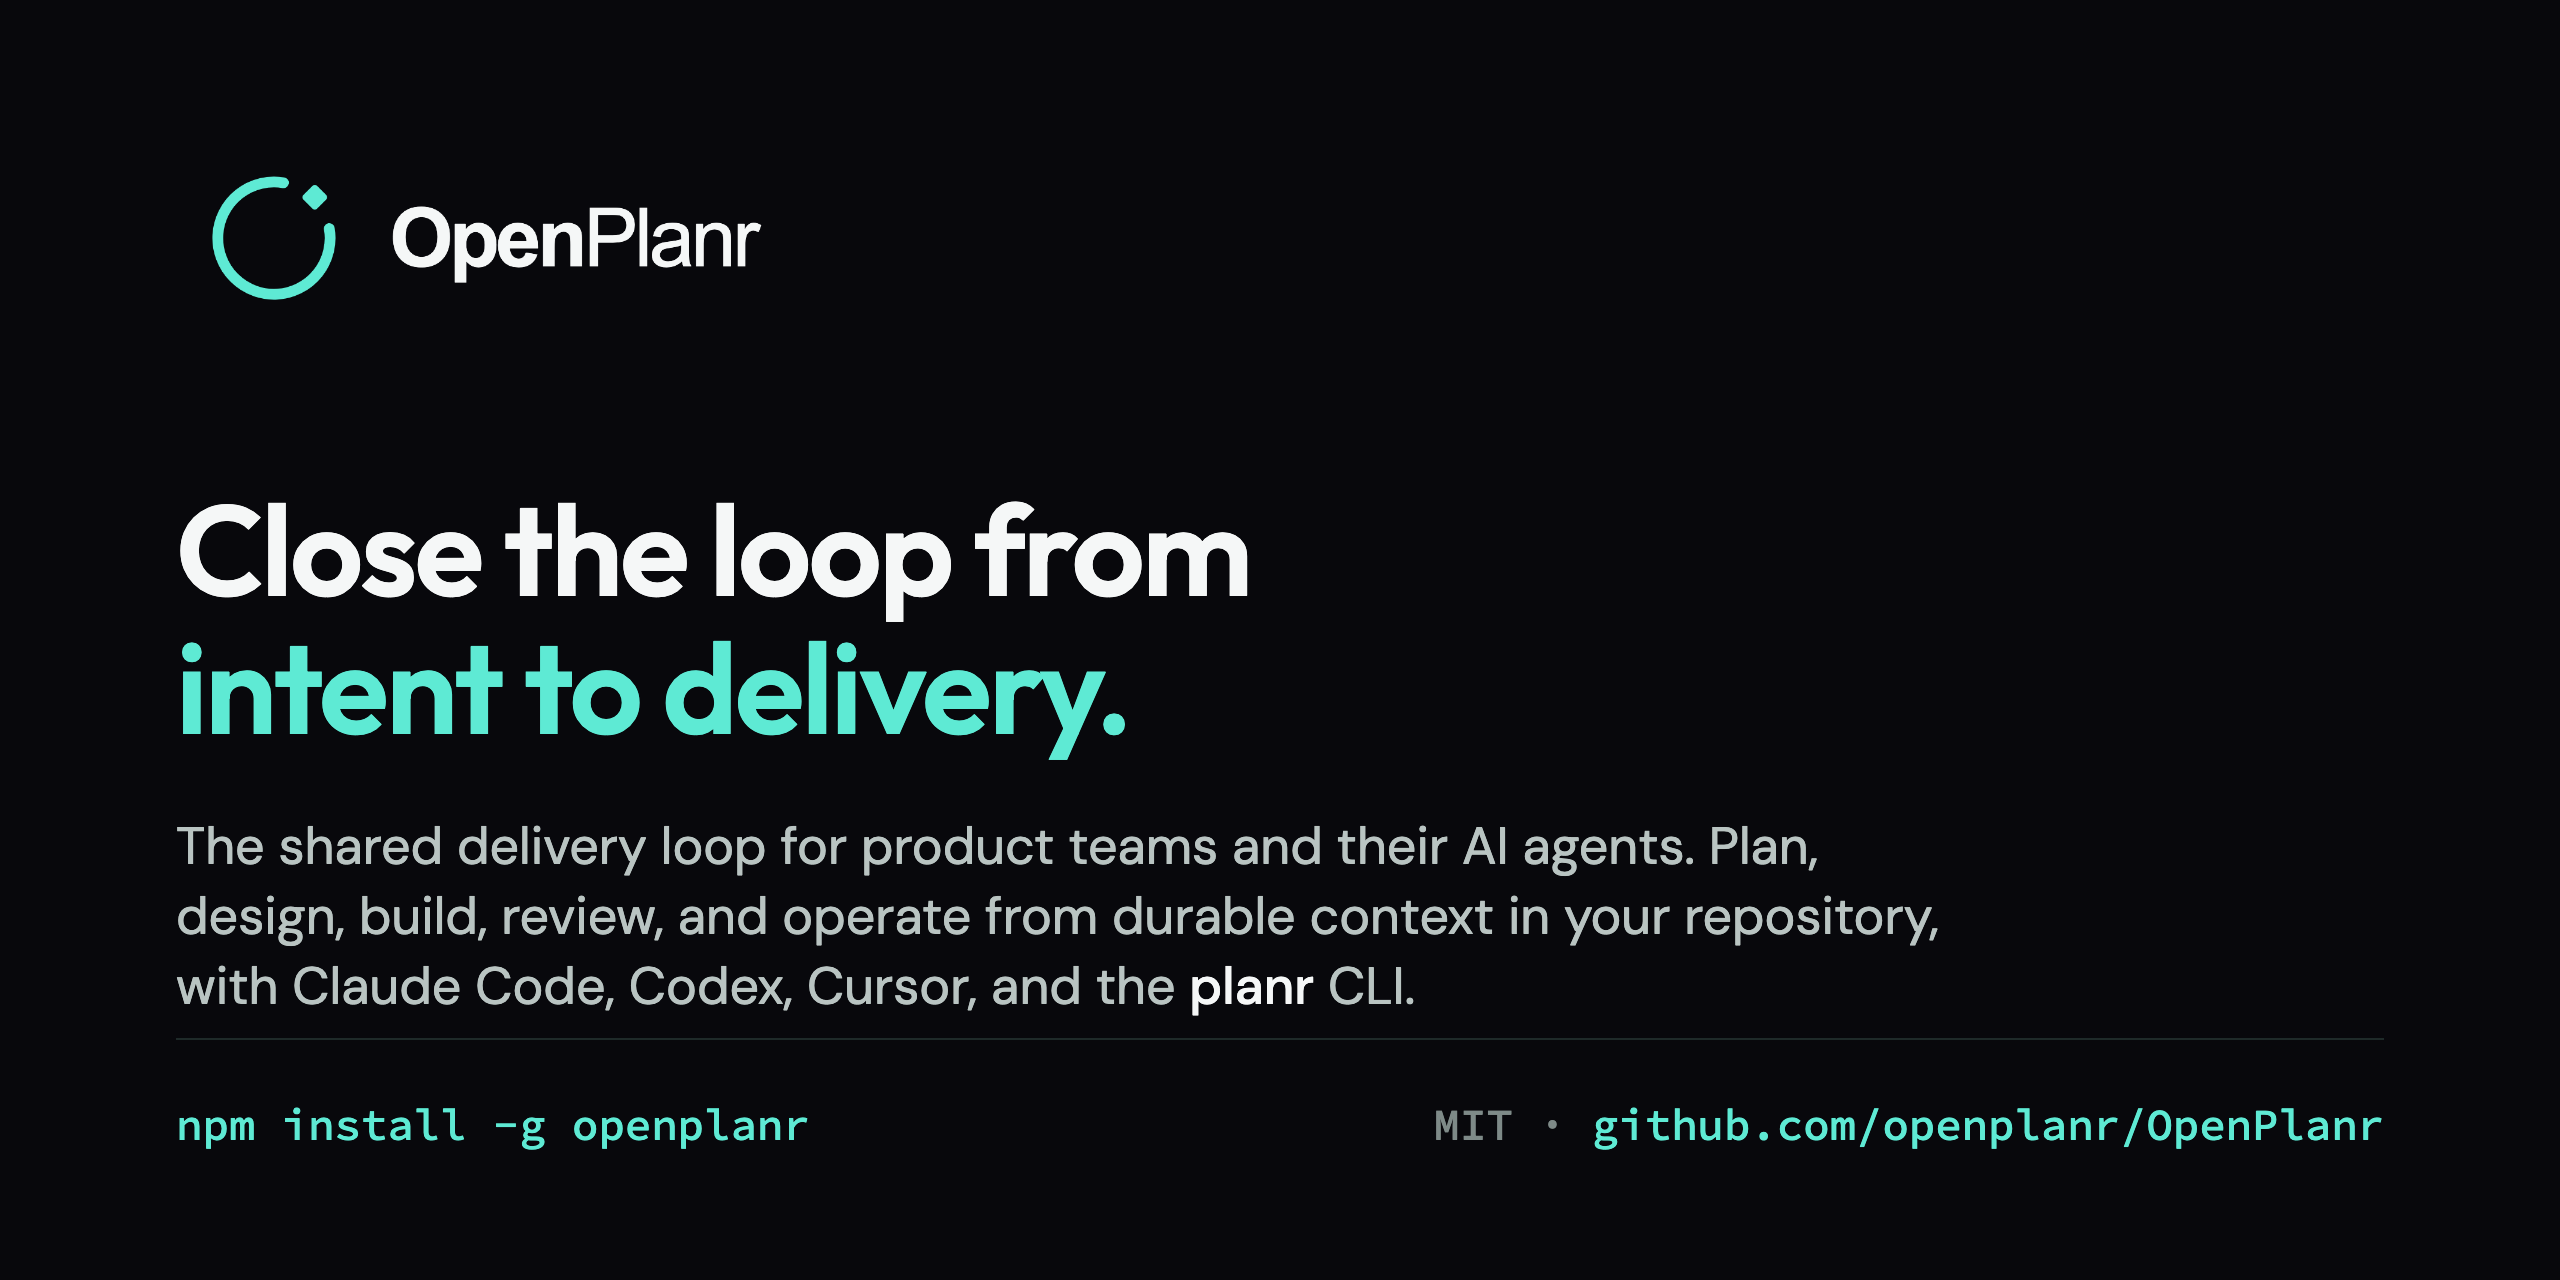
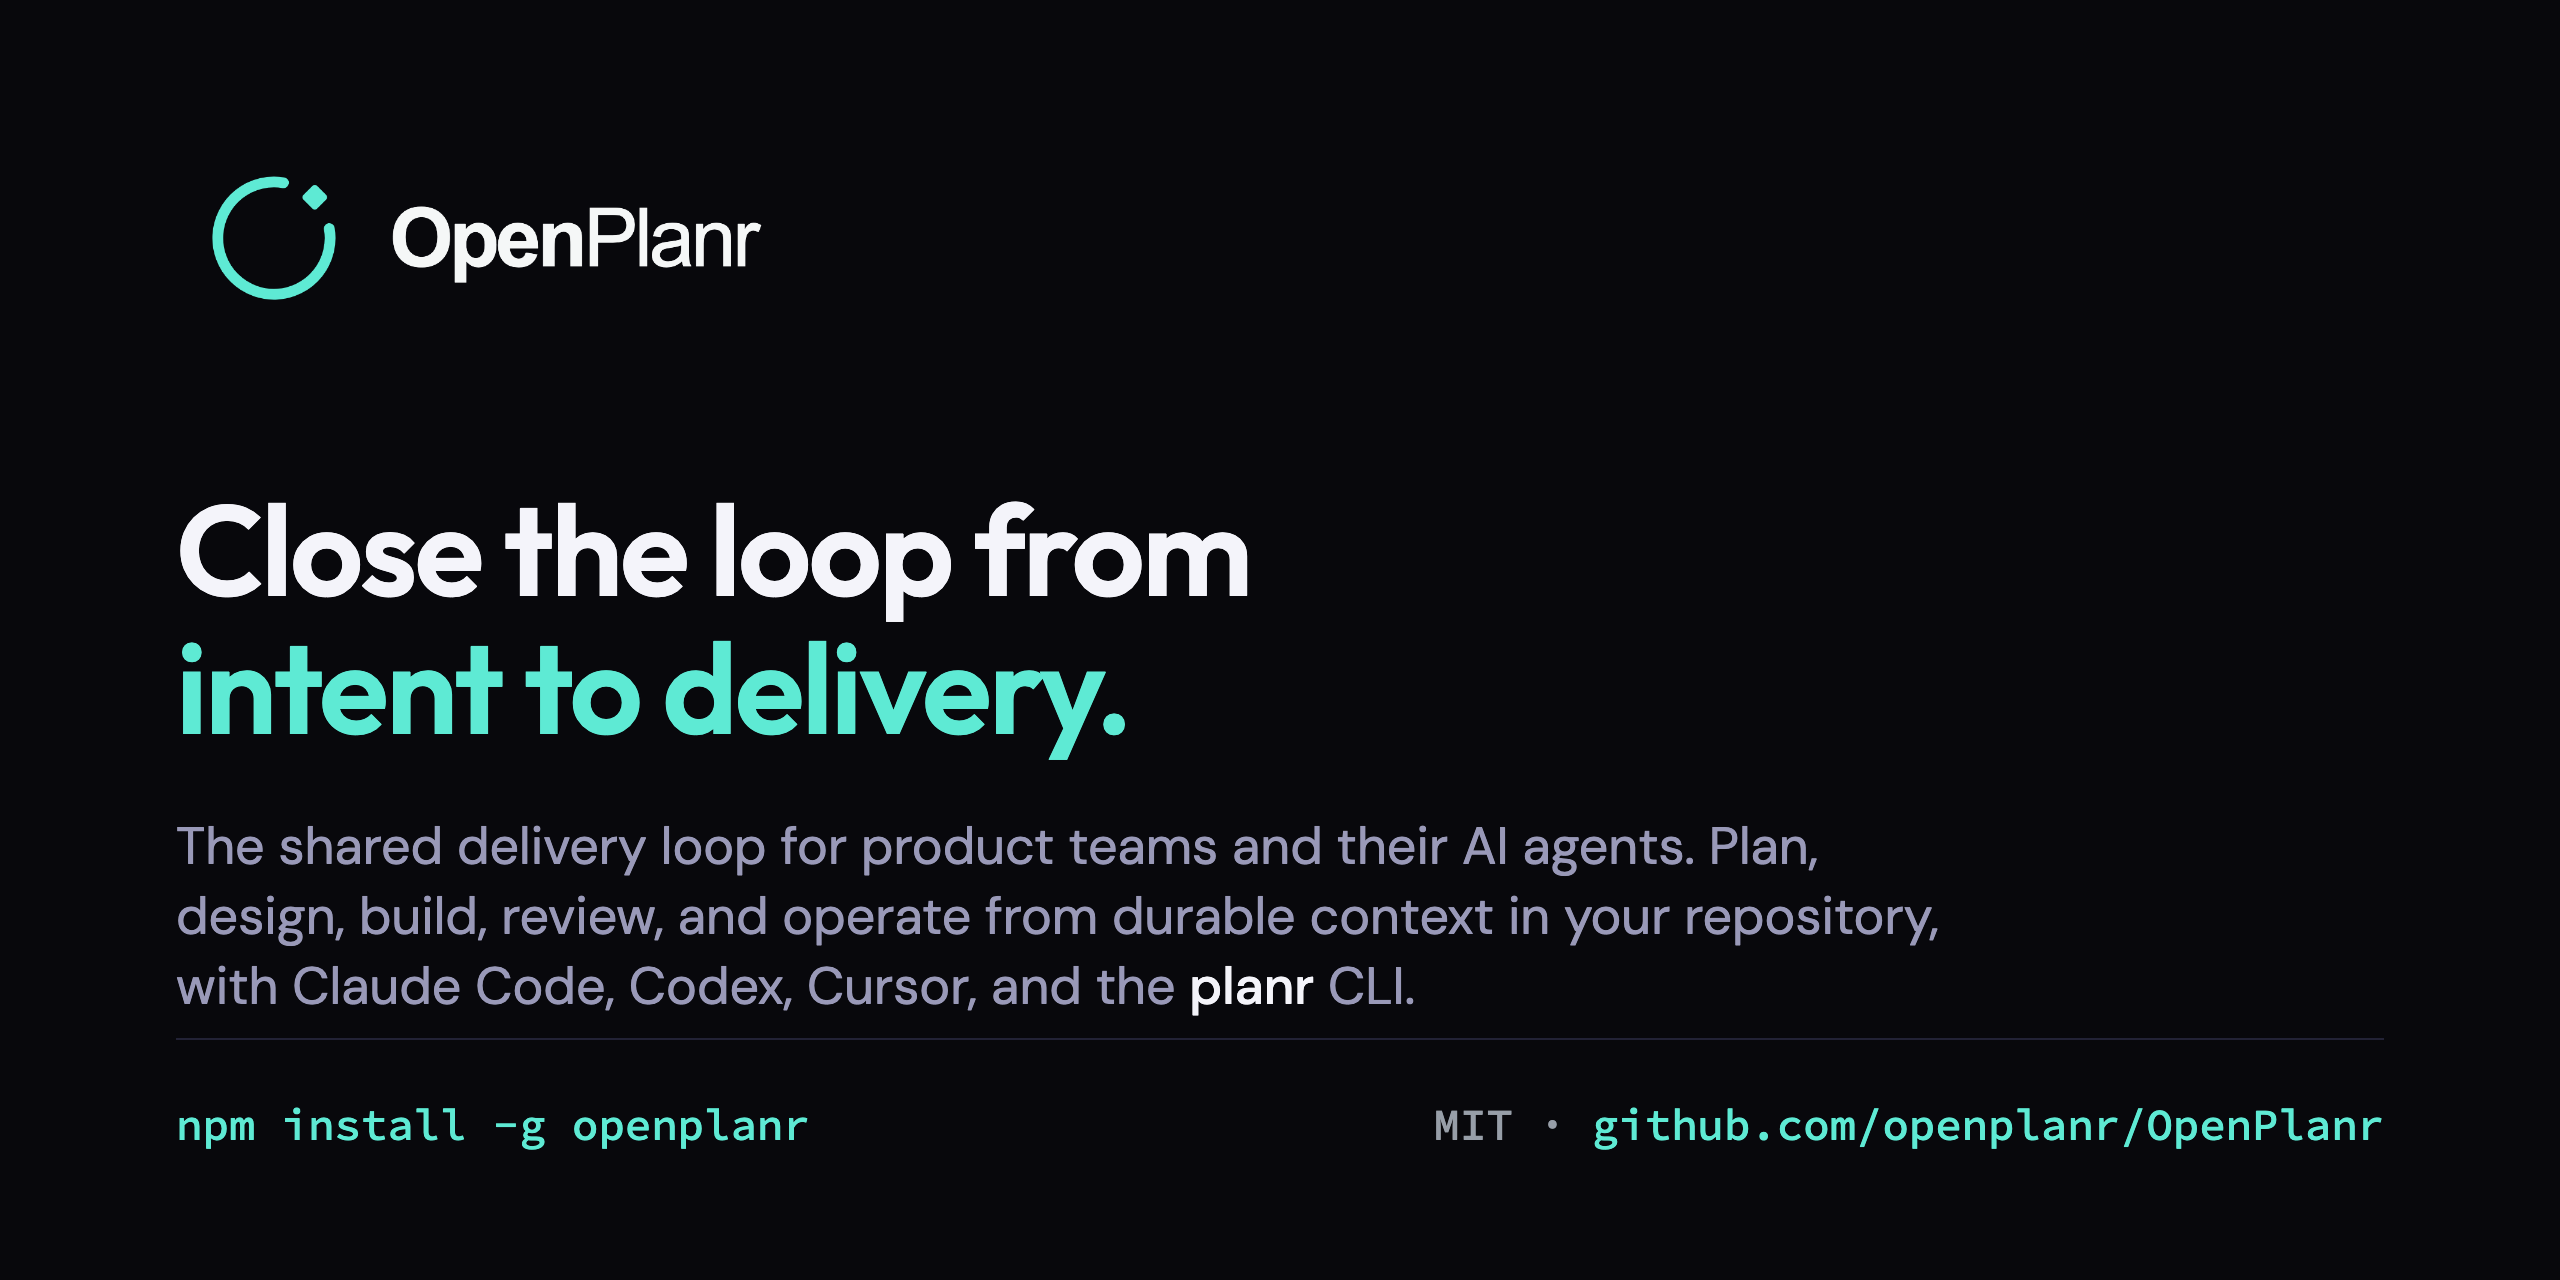
docs(brand): use the reconciled teal and token greys
Teal on light moves to #206E67; #237A72 measured 4.4:1 on the light
raised surface, below AA for body text. The social preview takes its
text, body, dim and rule colors from the shared op-* token set and is
re-rendered at 2560 x 1280.

Changed region(s): [[0.0625, 0.6562, 0.75, 0.7812], [0.5625, 0.875, 0.5938, 0.9062]]

diff --git a/docs/assets/brand/social-preview.html b/docs/assets/brand/social-preview.html
@@ -4,19 +4,19 @@
 <link href="https://fonts.googleapis.com/css2?family=Outfit:wght@500;600;700&family=DM+Sans:wght@400;500&family=Source+Code+Pro:wght@500&display=swap" rel="stylesheet">
 <style>
   html,body{margin:0;width:1280px;height:640px;background:#08080C;overflow:hidden}
-  .card{position:relative;width:1280px;height:640px;box-sizing:border-box;padding:72px 88px;color:#F5F7F7;font-family:"DM Sans",system-ui,sans-serif}
+  .card{position:relative;width:1280px;height:640px;box-sizing:border-box;padding:72px 88px;color:#F4F4FA;font-family:"DM Sans",system-ui,sans-serif}
   .lockup{height:96px;display:block}
   h1{font-family:Outfit,system-ui,sans-serif;font-weight:600;font-size:64px;line-height:1.08;letter-spacing:-0.02em;margin:72px 0 0;max-width:980px}
   h1 em{font-style:normal;color:#5EEAD4}
-  p{margin:28px 0 0;font-size:26px;line-height:1.35;color:#B9C4C2;max-width:900px}
+  p{margin:28px 0 0;font-size:26px;line-height:1.35;color:#9999B8;max-width:900px}
   .foot{position:absolute;left:88px;right:88px;bottom:64px;display:flex;justify-content:space-between;align-items:center;font-family:"Source Code Pro",ui-monospace,monospace;font-size:22px;color:#5EEAD4}
-  .foot span{color:#7E8A88}
-  .rule{position:absolute;left:88px;right:88px;bottom:120px;height:1px;background:#1E2A29}
+  .foot span{color:#979EA8}
+  .rule{position:absolute;left:88px;right:88px;bottom:120px;height:1px;background:#222236}
 </style></head>
 <body><div class="card">
   <img class="lockup" src="openplanr-lockup-on-dark.png" alt="OpenPlanr">
   <h1>Close the loop from<br><em>intent to delivery.</em></h1>
-  <p>The shared delivery loop for product teams and their AI agents. Plan, design, build, review, and operate from durable context in your repository, with Claude Code, Codex, Cursor, and the <b style="color:#F5F7F7;font-weight:500">planr</b> CLI.</p>
+  <p>The shared delivery loop for product teams and their AI agents. Plan, design, build, review, and operate from durable context in your repository, with Claude Code, Codex, Cursor, and the <b style="color:#F4F4FA;font-weight:500">planr</b> CLI.</p>
   <div class="rule"></div>
   <div class="foot"><div>npm install -g openplanr</div><div><span>MIT · </span>github.com/openplanr/OpenPlanr</div></div>
 </div></body></html>

diff --git a/docs/assets/brand/README.md b/docs/assets/brand/README.md
@@ -31,7 +31,7 @@ fonts cannot be controlled, such as GitHub and npm READMEs.
 | --- | --- | --- |
 | Ink | `#08080C` | Backgrounds, text on paper |
 | Teal | `#5EEAD4` | The mark, accents on ink |
-| Teal on light | `#237A72` | Accents and links on paper (meets contrast requirements) |
+| Teal on light | `#206E67` | Accents and links on paper (meets contrast requirements) |
 | Paper | `#F5F7F7` | Light backgrounds, text on ink |
 
 ## Typography
